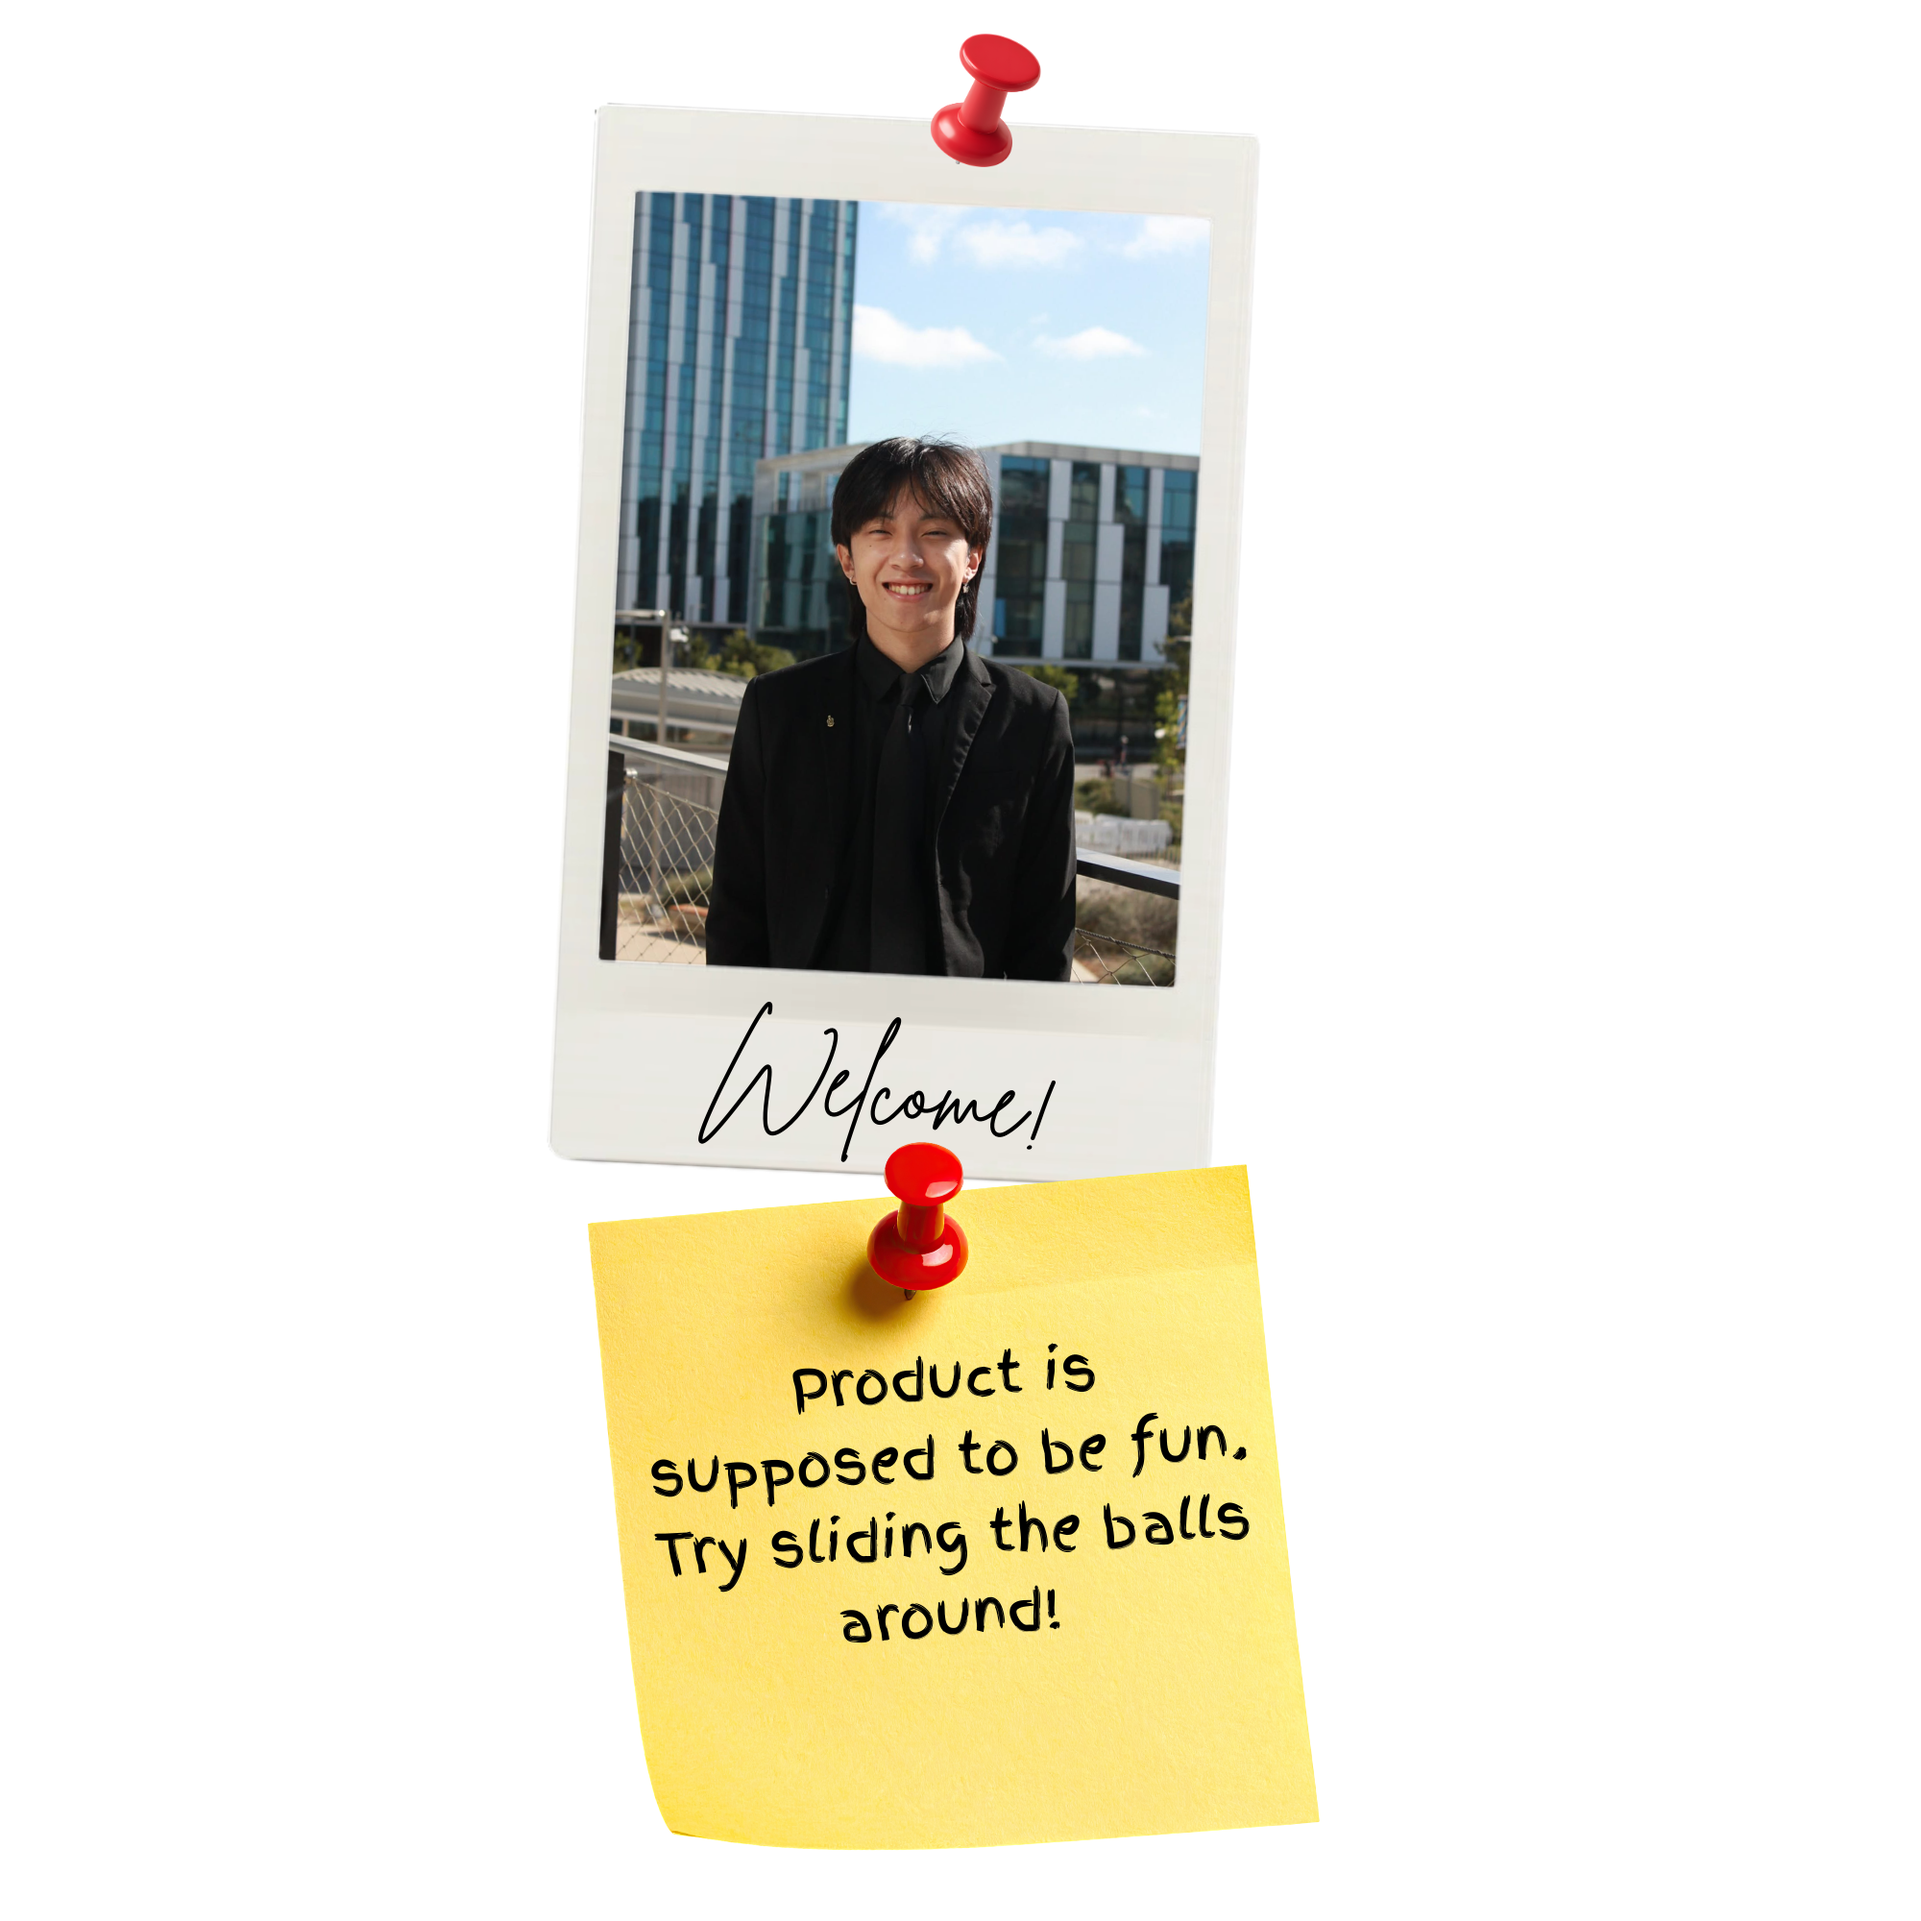
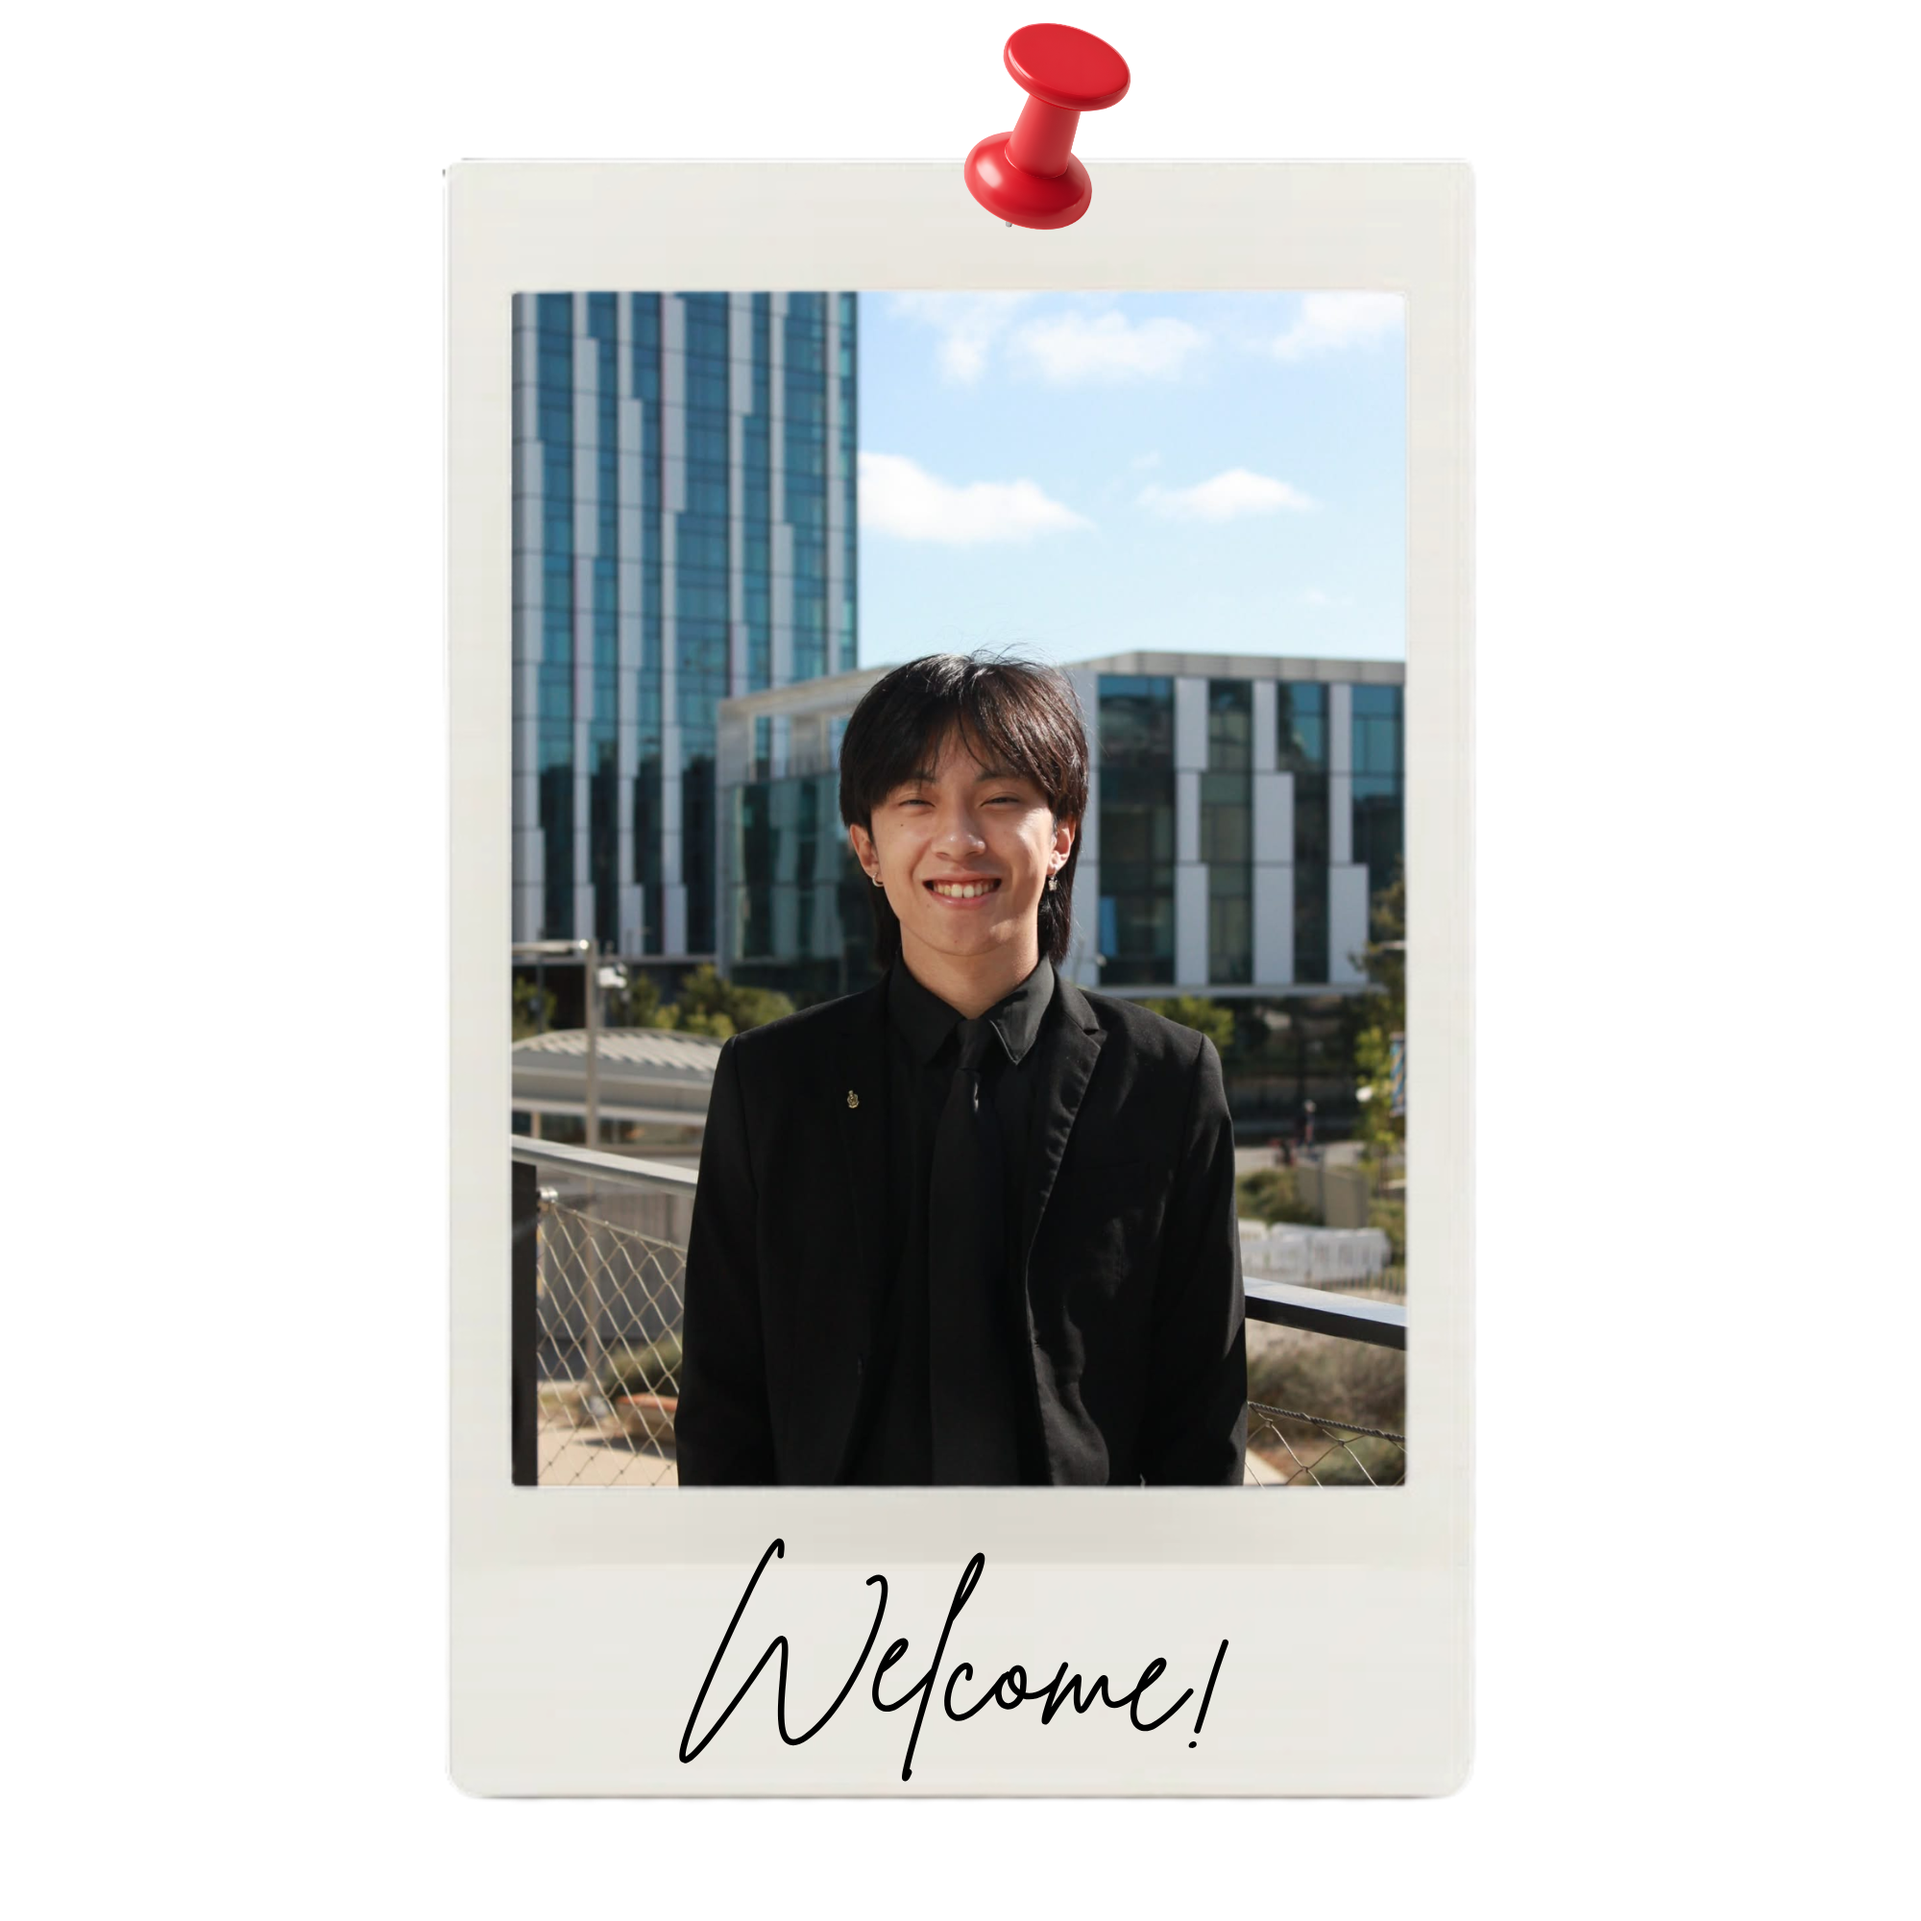
Move entrance intro to /welcome, portfolio loads directly at /
- Bubbles hidden by default on hero
- Polaroid swivels on hover around thumbtack point, shifted 20px right
- New welcome photo
- /welcome page hosts the polaroid camera entrance experience
- / now renders portfolio without intro so case study back-links land correctly

diff --git a/components/sections/Hero.tsx b/components/sections/Hero.tsx
@@ -421,8 +421,9 @@ function RotatingPhrase({ delay }: { delay: number }) {
 
 export default function Hero() {
   const lines = siteConfig.headline.split("\n");
-  const [bubblesVisible, setBubblesVisible] = useState(true);
+  const [bubblesVisible, setBubblesVisible] = useState(false);
   const [resetKey, setResetKey] = useState(0);
+  const [polaroidHovered, setPolaroidHovered] = useState(false);
   const autoResetTimer = useRef<ReturnType<typeof setTimeout> | null>(null);
 
   const cancelAutoReset = () => {
@@ -454,21 +455,31 @@ export default function Hero() {
       )}
 
       {/* Welcome note */}
-      <motion.div
-        initial={{ opacity: 0, scale: 0.95 }}
-        animate={{ opacity: 1, scale: 1 }}
-        transition={{ duration: 0.4, delay: 0, ease: [0.43, 0.195, 0.02, 1] }}
-        className="absolute hidden lg:block pointer-events-none"
-        style={{ right: "3%", top: "15%", transform: "translateY(-50%)", zIndex: 14 }}
+      <div
+        className="absolute hidden lg:block"
+        style={{ right: "calc(3% - 20px)", top: "50%", transform: "translateY(-50%)", zIndex: 14 }}
       >
-        <Image
-          src="/Landing Page/Welcome!.png"
-          alt="Welcome"
-          width={1000}
-          height={700}
-          className="w-[680px] h-auto"
-        />
-      </motion.div>
+        <motion.div
+          initial={{ opacity: 0, scale: 0.95, rotate: 0 }}
+          animate={{ opacity: 1, scale: 1, rotate: polaroidHovered ? 3 : 0 }}
+          transition={{
+            opacity: { duration: 0.4, ease: [0.43, 0.195, 0.02, 1] },
+            scale: { duration: 0.4, ease: [0.43, 0.195, 0.02, 1] },
+            rotate: { type: "spring", stiffness: 180, damping: 10 },
+          }}
+          style={{ transformOrigin: "50% 4%" }}
+          onMouseEnter={() => setPolaroidHovered(true)}
+          onMouseLeave={() => setPolaroidHovered(false)}
+        >
+          <Image
+            src="/Landing Page/Welcome!.png"
+            alt="Welcome"
+            width={1000}
+            height={700}
+            className="w-[680px] h-auto"
+          />
+        </motion.div>
+      </div>
 
       {/* Main content */}
       <div className="relative z-10 max-w-6xl mx-auto px-6 pt-36 pb-24">

diff --git a/app/page.tsx b/app/page.tsx
@@ -1,6 +1,3 @@
-"use client";
-
-import { useEffect, useState } from "react";
 import Navigation from "@/components/Navigation";
 import Hero from "@/components/sections/Hero";
 import Projects from "@/components/sections/Projects";
@@ -10,48 +7,19 @@ import About from "@/components/sections/About";
 import Footer from "@/components/sections/Footer";
 import ScrollProgress from "@/components/ui/ScrollProgress";
 import ResumeModal from "@/components/ui/ResumeModal";
-import EntranceIntro from "@/components/EntranceIntro";
 
 export default function Home() {
-  // null = undecided (SSR / first paint); true = show intro; false = intro done
-  const [showIntro, setShowIntro] = useState<boolean | null>(null);
-  // Hero mounts when intro enters its "leaving" phase, so they crossfade smoothly.
-  // On mobile/iPad we skip the intro and mount hero immediately.
-  const [heroMounted, setHeroMounted] = useState(false);
-
-  useEffect(() => {
-    const desktop = window.matchMedia(
-      "(min-width: 1024px) and (pointer: fine)"
-    ).matches;
-    setShowIntro(desktop);
-    if (!desktop) setHeroMounted(true);
-  }, []);
-
-  if (showIntro === null) {
-    return <div style={{ minHeight: "100vh", background: "#0A0908" }} />;
-  }
-
   return (
-    <>
-      {heroMounted && (
-        <main>
-          <ScrollProgress />
-          <ResumeModal />
-          <Navigation />
-          <Hero />
-          <Projects />
-          <Playground />
-          <Resume />
-          <About />
-          <Footer />
-        </main>
-      )}
-      {showIntro && (
-        <EntranceIntro
-          onLeaving={() => setHeroMounted(true)}
-          onComplete={() => setShowIntro(false)}
-        />
-      )}
-    </>
+    <main>
+      <ScrollProgress />
+      <ResumeModal />
+      <Navigation />
+      <Hero />
+      <Projects />
+      <Playground />
+      <Resume />
+      <About />
+      <Footer />
+    </main>
   );
 }

diff --git a/app/welcome/page.tsx b/app/welcome/page.tsx
@@ -1,0 +1,15 @@
+"use client";
+
+import { useRouter } from "next/navigation";
+import EntranceIntro from "@/components/EntranceIntro";
+
+export default function WelcomePage() {
+  const router = useRouter();
+
+  return (
+    <EntranceIntro
+      onLeaving={() => {}}
+      onComplete={() => router.push("/")}
+    />
+  );
+}
